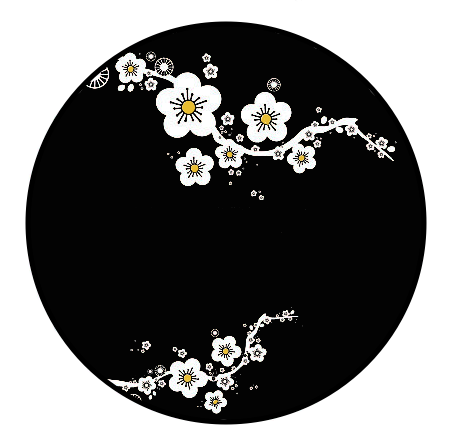
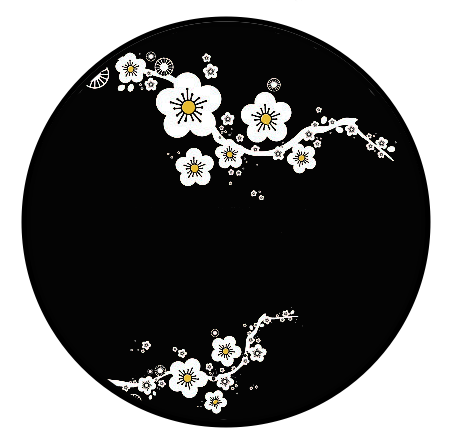
`

diff --git a/_includes/css/main.css b/_includes/css/main.css
@@ -229,7 +229,7 @@ section.success {
     background-image: url('img/bw-blossoms.png');
     background-repeat: no-repeat;
     background-size: auto auto;
-    background-position: -10px 5%;
+    background-position: -115px -50px;
 }
 
 #portfolio .portfolio-item {
